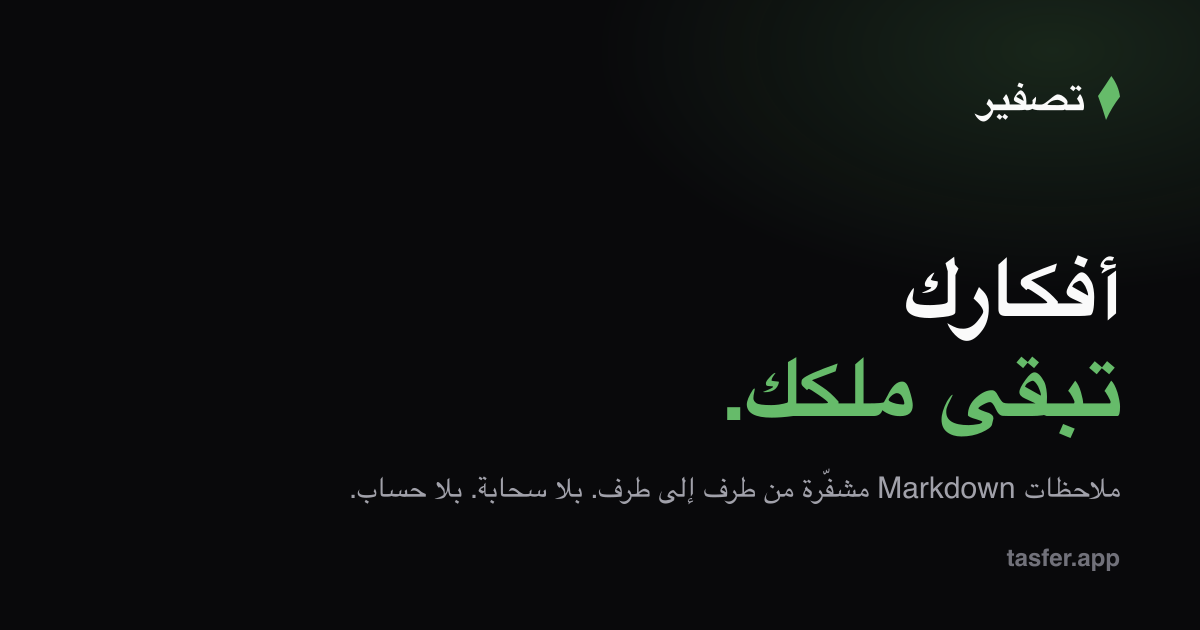
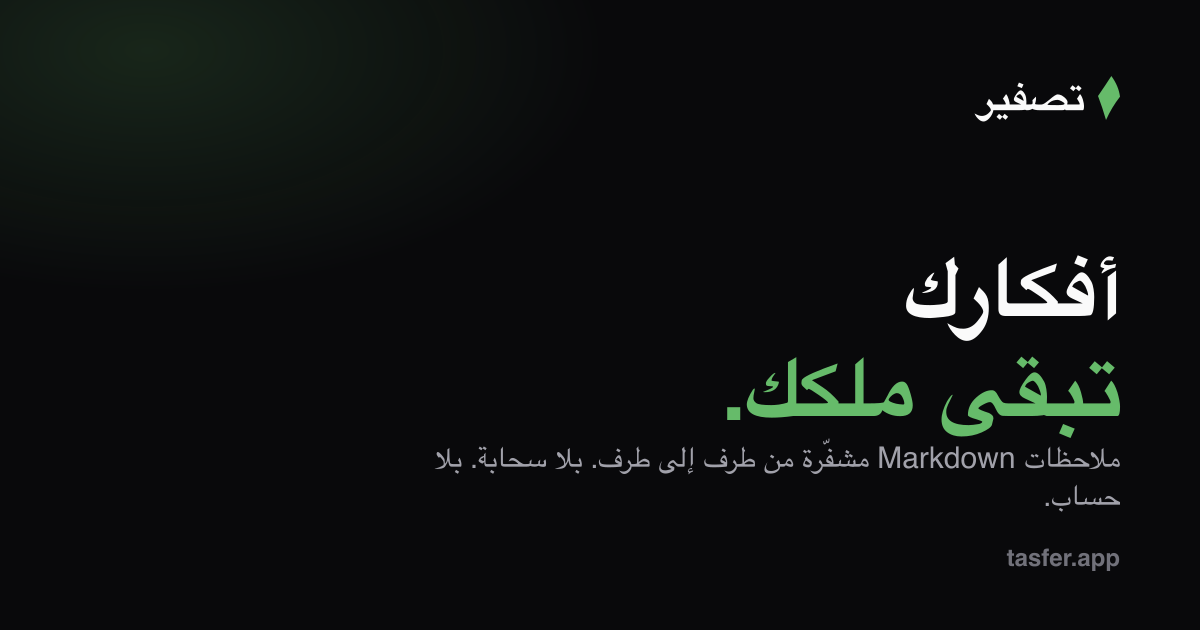
✨ Generate per-page OG cards with localized metadata
Docs, download, and privacy pages get their own 1200×630 share cards
(en + ar) rendered from the i18n store, with matching generateMetadata
on each route. OG generation now runs as part of the site build, and
the layout's openGraph locale follows the page language.

Changed region(s): [[0.3083, 0.6937, 0.9558, 0.8143], [0.8017, 0.0, 0.9558, 0.1508], [0.0617, 0.0, 0.185, 0.1508]]

diff --git a/apps/site/src/app/[lang]/docs/page.tsx b/apps/site/src/app/[lang]/docs/page.tsx
@@ -1,4 +1,32 @@
+import type { Metadata } from "next";
+
+import { getDictionary, isLng } from "@/lib/i18n/locales";
+import { getOgImage } from "@/lib/og";
 import DocsPage from "@/views/DocsPage/DocsPage";
+
+export async function generateMetadata({
+  params,
+}: {
+  params: Promise<{ lang: string }>;
+}): Promise<Metadata> {
+  const { lang } = await params;
+  if (!isLng(lang)) return {};
+  const dictionary = getDictionary(lang);
+  const title = dictionary["docs.metadata.title"];
+  const description = dictionary["docs.metadata.description"];
+  const image = getOgImage("docs", lang);
+
+  return {
+    title,
+    description,
+    openGraph: {
+      title,
+      description,
+      images: [{ url: image, width: 1200, height: 630, alt: title }],
+    },
+    twitter: { card: "summary_large_image", title, description, images: [image] },
+  };
+}
 
 export default function Page() {
   return <DocsPage />;

diff --git a/apps/site/src/app/[lang]/privacy/page.tsx b/apps/site/src/app/[lang]/privacy/page.tsx
@@ -1,4 +1,32 @@
+import type { Metadata } from "next";
+
+import { getDictionary, isLng } from "@/lib/i18n/locales";
+import { getOgImage } from "@/lib/og";
 import PrivacyPage from "@/views/PrivacyPage/PrivacyPage";
+
+export async function generateMetadata({
+  params,
+}: {
+  params: Promise<{ lang: string }>;
+}): Promise<Metadata> {
+  const { lang } = await params;
+  if (!isLng(lang)) return {};
+  const dictionary = getDictionary(lang);
+  const title = dictionary["privacy.metadata.title"];
+  const description = dictionary["privacy.metadata.description"];
+  const image = getOgImage("privacy", lang);
+
+  return {
+    title,
+    description,
+    openGraph: {
+      title,
+      description,
+      images: [{ url: image, width: 1200, height: 630, alt: title }],
+    },
+    twitter: { card: "summary_large_image", title, description, images: [image] },
+  };
+}
 
 export default function Page() {
   return <PrivacyPage />;

diff --git a/apps/site/src/app/[lang]/download/page.tsx b/apps/site/src/app/[lang]/download/page.tsx
@@ -2,6 +2,7 @@ import type { Metadata } from "next";
 import { notFound } from "next/navigation";
 // import DownloadPage from "@/views/DownloadPage/DownloadPage";
 import { getDictionary, isLng, SUPPORTED_LNGS } from "@/lib/i18n/locales";
+import { getOgImage } from "@/lib/og";
 
 export async function generateMetadata({
   params,
@@ -11,10 +12,26 @@ export async function generateMetadata({
   const { lang } = await params;
   if (!isLng(lang)) return {};
   const dictionary = getDictionary(lang);
+  const title = dictionary["download.metadata.title"];
+  const description = dictionary["download.metadata.description"];
+  const image = getOgImage("download", lang);
 
   return {
-    title: dictionary["download.metadata.title"],
-    description: dictionary["download.metadata.description"],
+    title,
+    description,
+    openGraph: {
+      title,
+      description,
+      images: [
+        {
+          url: image,
+          width: 1200,
+          height: 630,
+          alt: title,
+        },
+      ],
+    },
+    twitter: { card: "summary_large_image", title, description, images: [image] },
     alternates: {
       canonical: `/${lang}/download`,
       languages: Object.fromEntries(

diff --git a/apps/site/src/lib/og.ts b/apps/site/src/lib/og.ts
@@ -1,0 +1,6 @@
+export type OgPage = "home" | "docs" | "download" | "privacy";
+
+export function getOgImage(page: OgPage, lang: string) {
+  const suffix = lang === "ar" ? ".ar" : "";
+  return page === "home" ? `/og${suffix}.png` : `/og/${page}${suffix}.png`;
+}

diff --git a/apps/site/src/app/[lang]/layout.tsx b/apps/site/src/app/[lang]/layout.tsx
@@ -14,6 +14,7 @@ import "@fontsource/space-grotesk/600.css";
 import "@fontsource/space-grotesk/700.css";
 
 import { getDictionary, isLng, SUPPORTED_LNGS } from "@/lib/i18n/locales";
+import { getOgImage } from "@/lib/og";
 import { Providers } from "@/providers/Providers";
 
 const SITE_ORIGIN = "https://www.tasfer.app";
@@ -35,7 +36,7 @@ export async function generateMetadata({
   const dictionary = getDictionary(lang);
   const title = dictionary["metadata.title"];
   const description = dictionary["metadata.description"];
-  const ogImage = "/og.png";
+  const ogImage = getOgImage("home", lang);
 
   return {
     metadataBase: new URL(SITE_ORIGIN),
@@ -46,7 +47,7 @@ export async function generateMetadata({
     robots: { index: true, follow: true },
     openGraph: {
       type: "website",
-      locale: "en",
+      locale: lang,
       siteName: "Tasfer",
       title,
       description,

diff --git a/apps/site/src/app/[lang]/home/page.tsx b/apps/site/src/app/[lang]/home/page.tsx
@@ -1,6 +1,7 @@
 import type { Metadata } from "next";
 import HomePage from "@/views/HomePage/HomePage";
 import { getDictionary, isLng } from "@/lib/i18n/locales";
+import { getOgImage } from "@/lib/og";
 
 export async function generateMetadata({
   params,
@@ -26,7 +27,7 @@ export async function generateMetadata({
       url: `/${lang}/home`,
       images: [
         {
-          url: "/og.png",
+          url: getOgImage("home", lang),
           width: 1200,
           height: 630,
           alt: title,

diff --git a/apps/site/src/app/[lang]/page.tsx b/apps/site/src/app/[lang]/page.tsx
@@ -1,6 +1,7 @@
 import type { Metadata } from "next";
 
 import { getDictionary, isLng } from "@/lib/i18n/locales";
+import { getOgImage } from "@/lib/og";
 import HomePage from "@/views/HomePage/HomePage";
 
 export async function generateMetadata({
@@ -27,7 +28,7 @@ export async function generateMetadata({
       url: `/${lang}`,
       images: [
         {
-          url: "/og.png",
+          url: getOgImage("home", lang),
           width: 1200,
           height: 630,
           alt: title,